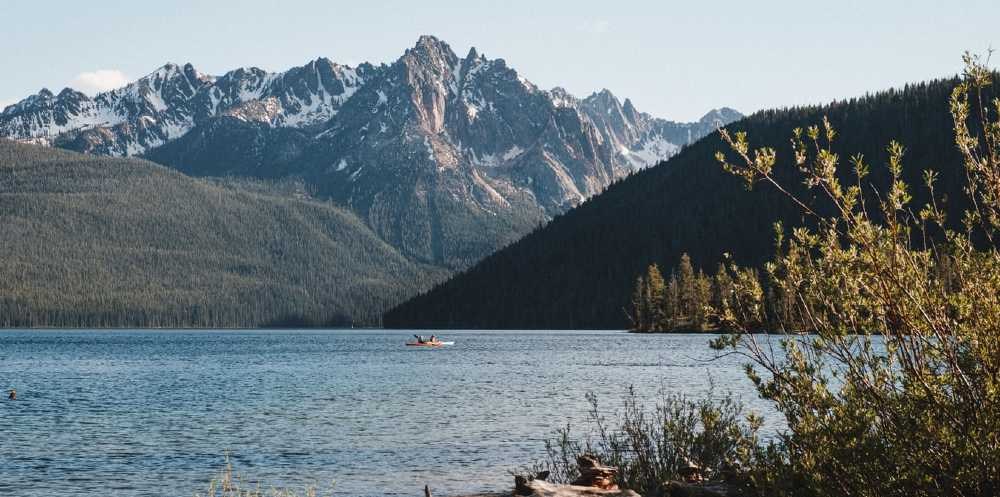
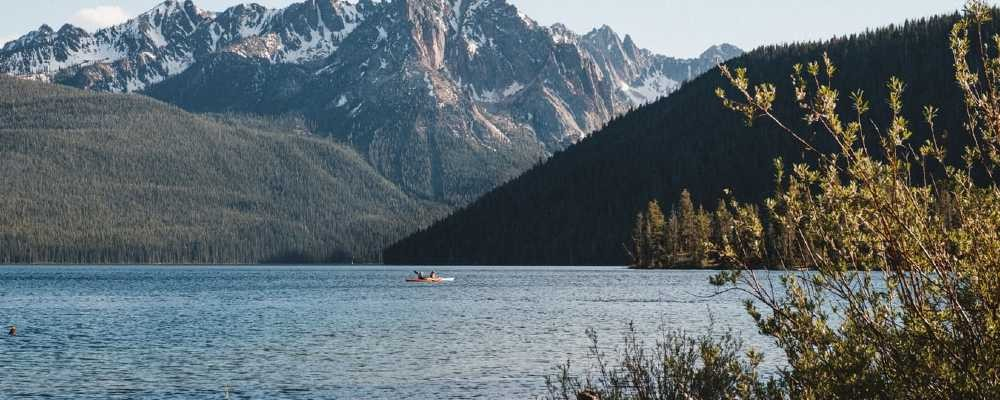
small changes

diff --git a/lesson9/gallery.html b/lesson9/gallery.html
@@ -51,7 +51,7 @@
                     <figcaption>Desert Road</figcaption>
                 </figure>
                 <figure>
-                    <img class="gallery-image" data-src="images/gallery2.jpg" alt="image 2">
+                    <img class="gallery-image" data-src="images/fishhaven.jpg" alt="image 2">
                     <figcaption>Fields</figcaption>
                 </figure>
                 <figure>
@@ -63,7 +63,7 @@
                     <figcaption>Snowy Forest</figcaption>
                 </figure>
                 <figure>
-                    <img class="gallery-image" data-src="images/gallery5.jpg" alt="image 5">
+                    <img class="gallery-image" data-src="images/sodasprings.jpg" alt="image 5">
                     <figcaption>Summer Rainbow</figcaption>
                 </figure>
                 <figure>
@@ -83,7 +83,7 @@
                     <figcaption>The Mills</figcaption>
                 </figure>
                 <figure>
-                    <img class="gallery-image" data-src="images/gallery10.jpg" alt="image 10">
+                    <img class="gallery-image" data-src="images/preston.jpg" alt="image 10">
                     <figcaption>Little Road</figcaption>
                 </figure>
                 <figure>

diff --git a/lesson9/index.html b/lesson9/index.html
@@ -46,10 +46,14 @@
 
         <div class="main-container">
             <h2>Welcome!</h2>
-            <div class="hero">
-                <img src="images/home-hero.jpg" sizes="100vw" srcset="images/home-hero-small.jpg 560w,
-                images/home-hero-medium.jpg 920w, images/home-hero.jpg 1000w" alt="Home image">
-
+            <div id="home-slider">
+                <figure>
+                    <img src="images/home-hero.jpg" alt="idaho image">
+                    <img src="images/hero-sp.jpg" alt="idaho image">
+                    <img src="images/home-hero.jpg" alt="idaho image">
+                    <img src="images/hero-preston.jpg" alt="idaho image">
+                    <img src="images/home-hero.jpg" alt="idaho image">
+                </figure>
             </div>
 
             <h2 id="home-title">Our Towns</h2>

diff --git a/lesson9/css/small.css b/lesson9/css/small.css
@@ -283,3 +283,51 @@ section h2 {
 #home-title {
     text-align: center;
 }
+
+#home-slider {
+    overflow: hidden;
+    box-shadow: 0px 0px 10px rgba(0, 0, 0, .5);
+}
+
+#home-slider figure {
+    position: relative;
+    width: 500%;
+    margin: 0;
+    left: 0;
+    animation: 20s slider infinite;
+}
+
+#home-slider figure img {
+    width: 20%;
+    float: left;
+}
+
+@keyframes slider {
+    0% {
+        left: 0;
+    }
+    20% {
+        left: 0%;
+    }
+    25% {
+        left: -100%;
+    }
+    45% {
+        left: -100%;
+    }
+    50% {
+        left: -200%;
+    }
+    70% {
+        left: -200%;
+    }
+    75% {
+        left: -300%;
+    }
+    95% {
+        left: -300%;
+    }
+    100% {
+        left: -400%;
+    }
+}

diff --git a/lesson9/preston.html b/lesson9/preston.html
@@ -49,8 +49,8 @@
             <h2>Preston Idaho</h2>
 
             <div class="hero">
-                <img src="images/preston-hero-large.jpg" sizes="100vw" srcset="images/preston-hero-small.jpg 560w,
-                images/preston-hero-medium.jpg 920w, images/preston-hero-large.jpg 1000w" alt="Preston hero image">
+                <img src="images/hero-preston.jpg" sizes="100vw" srcset="images/hero-preston-small.jpg 560w,
+                images/hero-preston-medium.jpg 920w, images/hero-preston.jpg 1000w" alt="Preston hero image">
                 <div class="summary">
                     <h3>Weather Summary</h3>
                     <p>Currently: Rainy</p>
